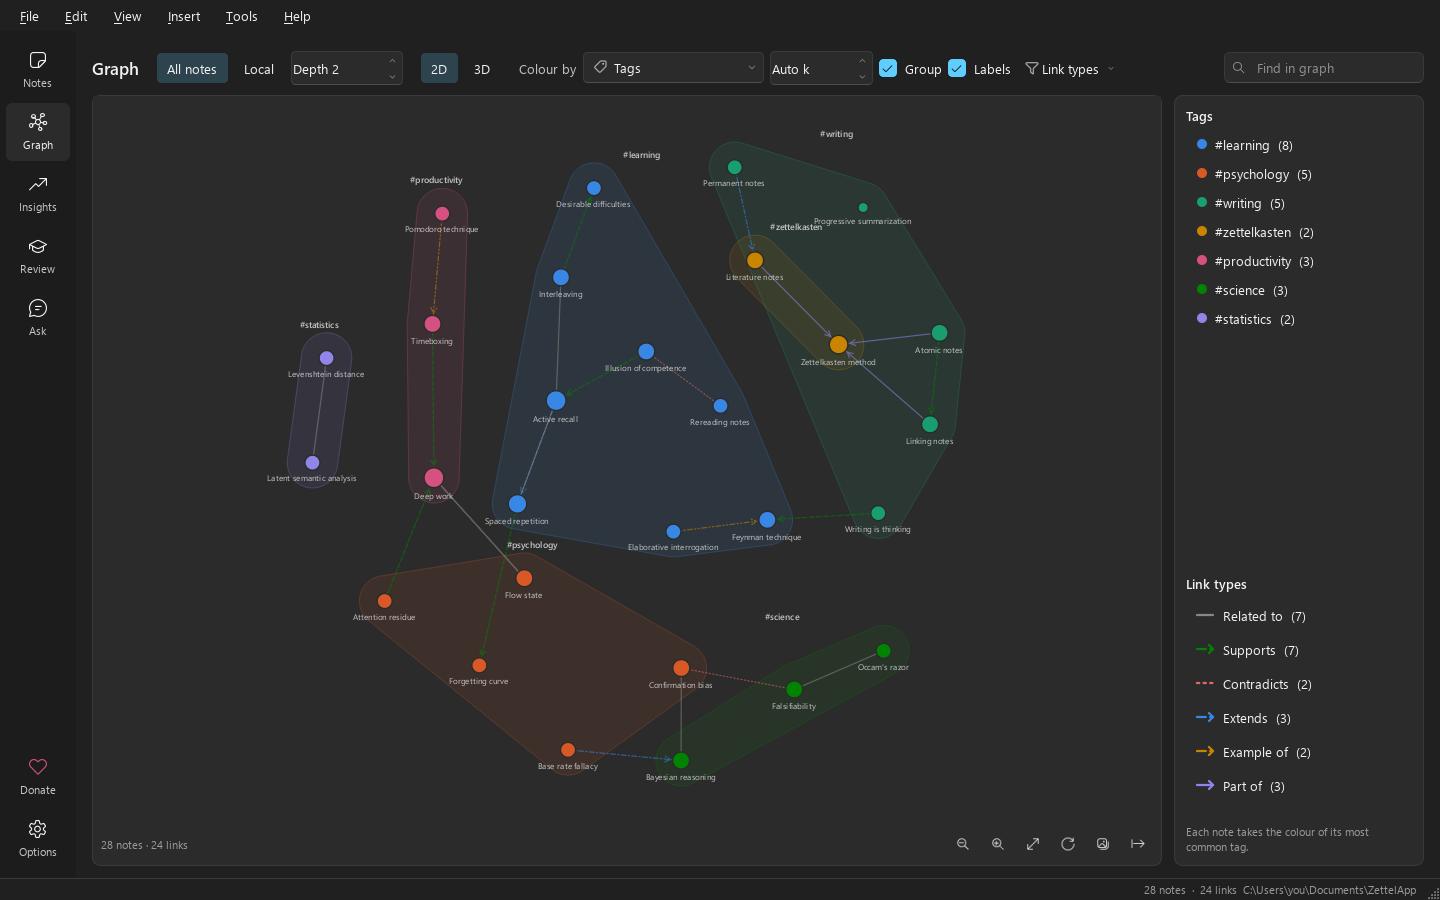
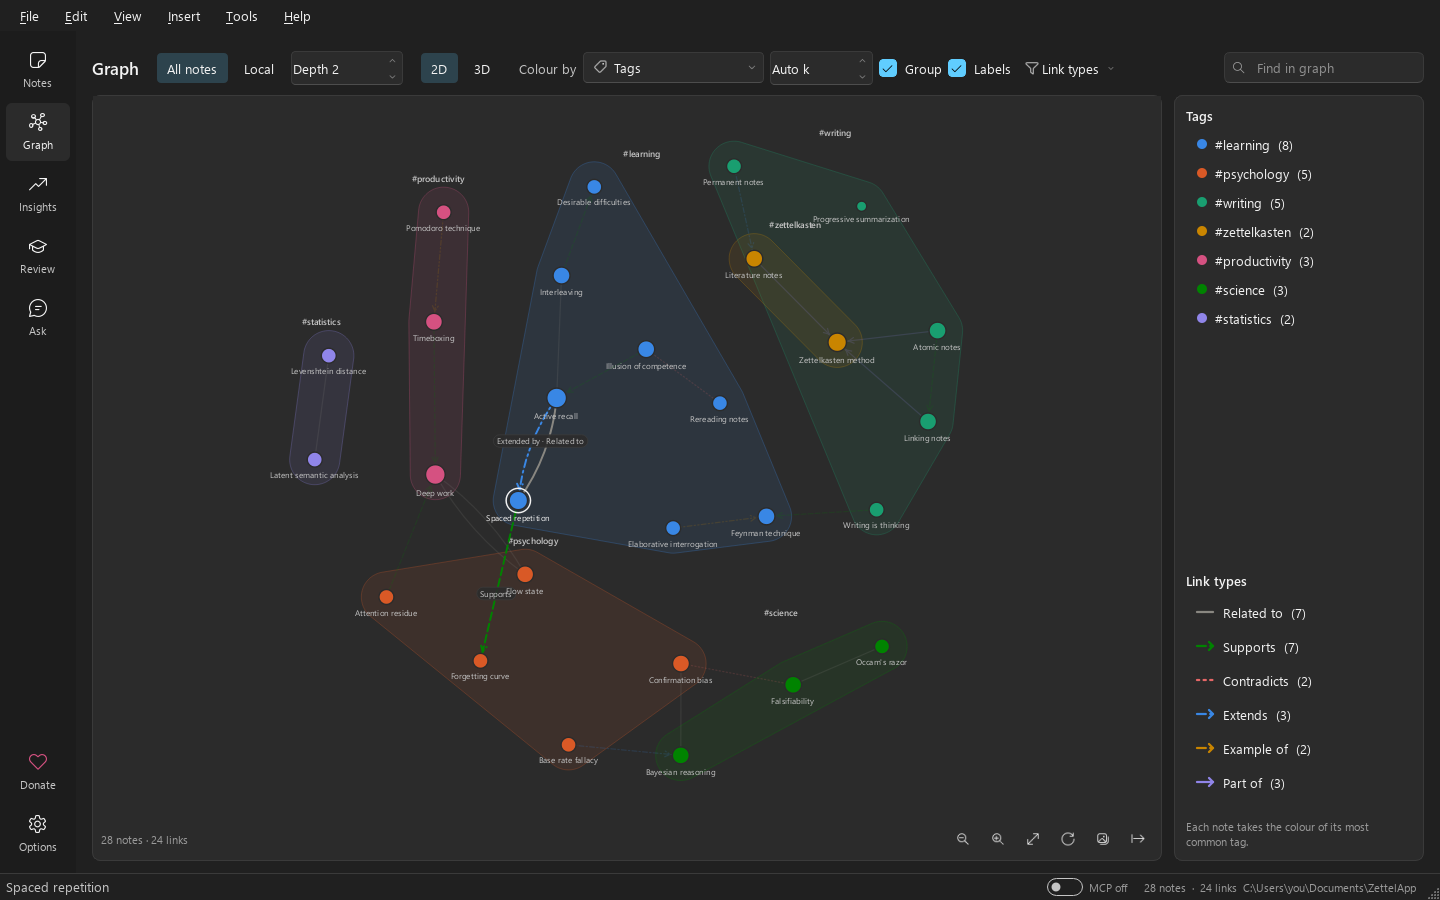
Refresh the website screenshots
They now show the Options icons, the MCP switch in the status bar, the
file-link button and, in the graph, a selected note with its labelled
links.

diff --git a/tools/screenshots.py b/tools/screenshots.py
@@ -73,7 +73,10 @@ def main() -> None:
 
         window.show_page(1)
         settle(app, 600)
+        window.graph.view2d.select(ids["Spaced repetition"])  # shows its typed links, labelled
+        settle(app, 300)
         window.grab().save(str(out / f"graph-{mode}.png"))
+        window.graph.view2d.select(None)
         window.graph.color_by.setCurrentIndex(1)  # k-means clusters
         settle(app, 600)
         window.grab().save(str(out / f"graph-clusters-{mode}.png"))
